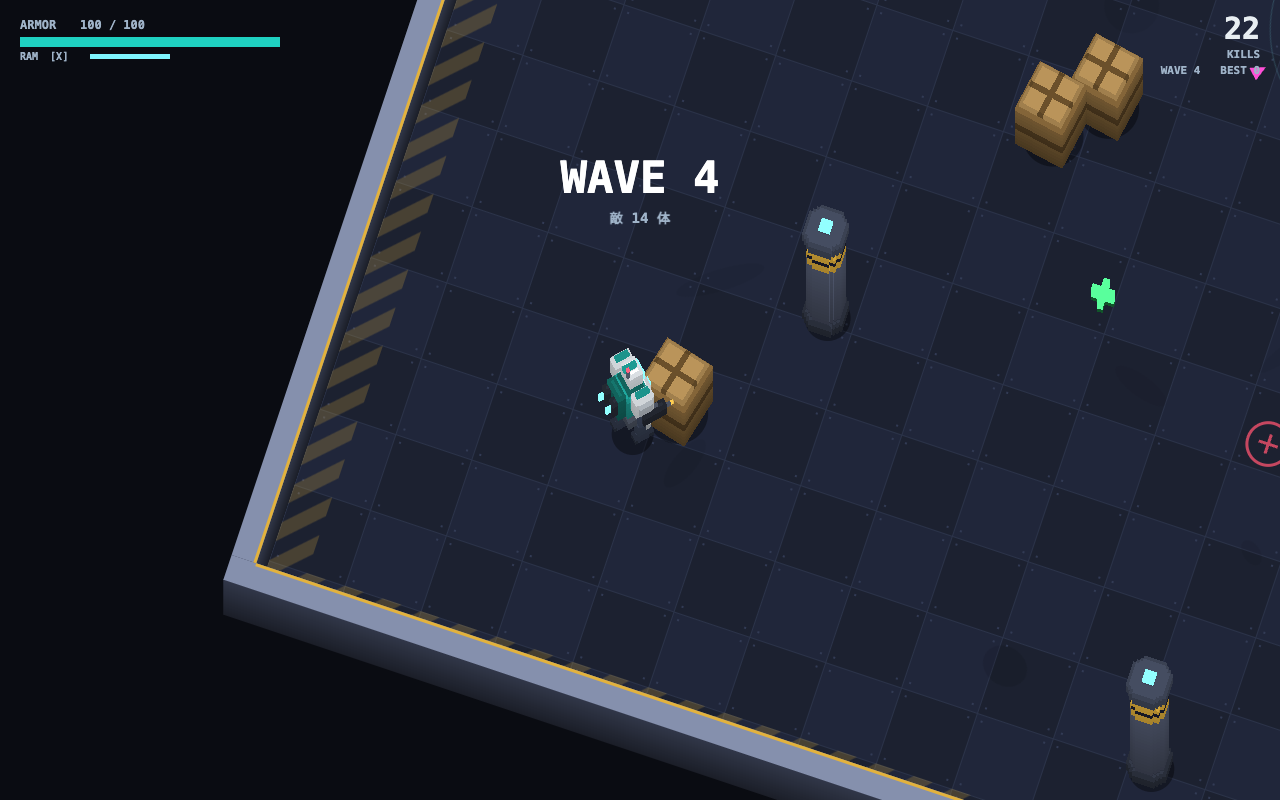
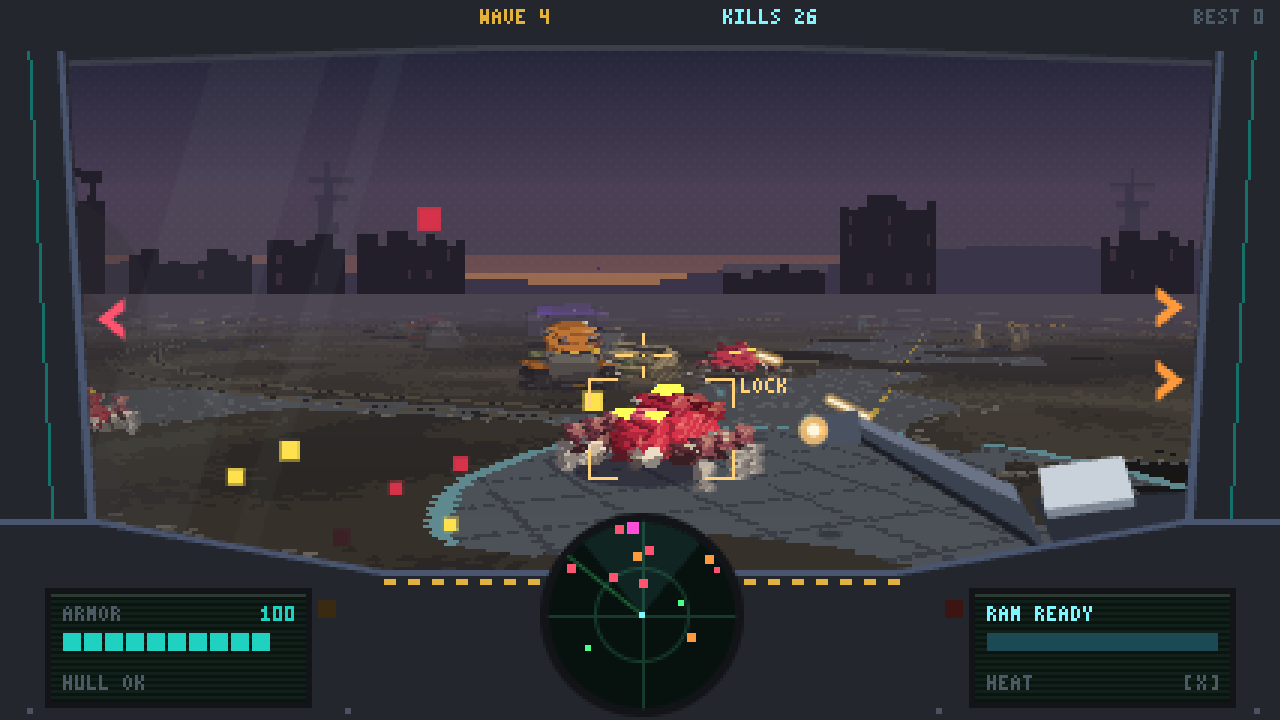
README と画面の写しを、コックピット視点・戦場・新しい音に合わせて更新
- 視点の表を 俯瞰・後ろ上・コックピット に。一人称の描画のしくみと限界、性能を書いた
- 3 版目の見た目（塗り・ロボット・フィールド）と音の作り方・測定結果を書いた
- docs/: view-cockpit.png・view-cockpit-close.png を追加、view-top.png・view-chase.png・screenshot.png を撮り直し、
  使わなくなった view-low.png を削除

diff --git a/README.md b/README.md
@@ -1,6 +1,6 @@
 # STACKBOT ARENA
 
-スプライトスタッキング（立体を「水平な断面の絵」の積み重ねで描く手法）で描いた、ブラウザで遊べるロボット対戦ゲームです。俯瞰と、後ろ上からの斜めの視点を切り替えられます。キーボードだけで遊びます。
+スプライトスタッキング（立体を「水平な断面の絵」の積み重ねで描く手法）で描いた、ブラウザで遊べるロボット対戦ゲームです。夕暮れの戦場が舞台で、俯瞰・後ろ上・コックピットからの一人称の 3 つの視点を切り替えられます。キーボードだけで遊びます。
 自機のロボット VANGUARD を操作して、次々に現れる敵のロボットを撃ち倒していきます。
 
 ![画面](docs/screenshot.png)
@@ -24,8 +24,8 @@ python3 -m http.server 8765
 | Z（長押しで連射） | 射撃。機体の正面へ撃つ |
 | X（Space でも可） | ダッシュ突撃 |
 | Shift（押している間） | 向きを固定（横歩き・後退しながら撃つ） |
-| Q / E | 視点を回す（後ろからの視点では横歩き） |
-| C | 視点の切り替え（俯瞰 → 後ろ上 → 低い後ろ）。選んだ視点はブラウザに保存 |
+| Q / E | 視点を回す（後ろ上・コックピットでは横歩き） |
+| C | 視点の切り替え（俯瞰 → 後ろ上 → コックピット）。選んだ視点はブラウザに保存 |
 | M | 消音 |
 | Enter | 開始 |
 | R / Enter | ゲームオーバー後にリトライ |
@@ -62,59 +62,92 @@ python3 -m http.server 8765
 
 ## 視点（C で切り替え）
 
-| 俯瞰 | 後ろ上 | 低い後ろ（試作） |
+| 俯瞰 | 後ろ上 | コックピット（一人称） |
 | --- | --- | --- |
-| ![俯瞰](docs/view-top.png) | ![後ろ上](docs/view-chase.png) | ![低い後ろ](docs/view-low.png) |
+| ![俯瞰](docs/view-top.png) | ![後ろ上](docs/view-chase.png) | ![コックピット](docs/view-cockpit.png) |
 
-- **俯瞰**: これまでの真上寄りの視点。北が固定で、Q / E で回せる。移動は画面の向きが基準。
+- **俯瞰**: 真上寄りの視点。北が固定で、Q / E で回せる。移動は画面の向きが基準。
 - **後ろ上**: カメラが自機の背中側へ回り込み、機体の前が常に画面の上になる。床を斜めに寝かせて（縦を 0.56 倍）、高さを強めに見せる。操作は ↑↓ で前進・後退、←→ で旋回、Q / E で横歩き、Z / X は同じ。
-- **低い後ろ（試作）**: さらに床を寝かせた（0.3 倍）視点。奥の壁が地平線のように見え、ロボットの側面まで見える。手前の障害物が自機に重なるときは半透明になる。
+- **コックピット**: VANGUARD の頭の高さ（地面から 57）から前を見る一人称。操作は後ろ上と同じ（↑↓ 前進・後退、←→ 旋回、Q / E 横歩き）。前の版の試作「低い後ろ」はこれに置き換えた。
 
-### 主観視点（ロボットの目線）はどこまで成り立つか
+### コックピット視点のしくみ
 
-スプライトスタッキングは「水平な断面の絵を、回して、縦に縮めて、高さぶん上にずらして重ねる」だけの描き方で、2D の canvas の回転・拡大縮小（アフィン変換）だけで描ける。床を寝かせる量と持ち上げる量を変えれば、**後ろ上から斜めに見下ろす視点までは自然に成り立つ**（上の 2 つ）。断面の積み重ねは横から見てもそれなりに形が読める。
+![コックピット（敵が近い場面）](docs/view-cockpit-close.png)
 
-一方、目線の高さ（ロボットの目の位置から前を見る主観視点）までは成り立たなかった。床をさらに寝かせた実験（`docs/view-eye-experiment.png`）で確かめた理由:
+前の版で「正射影のスプライトスタッキングでは主観視点は成り立たない（遠近が付かない）」と確かめた（`docs/view-eye-experiment.png`）ので、一人称だけ別の描画（`src/fps.js`）にした。
 
-1. **遠近が付かない**。この描き方は正射影なので、遠くの物が小さくならない。実験では 380 先の COLOSSUS が手前の自機より大きく映り、その奥の WARDEN は完全に隠れた。距離がわからず狙えない。遠近を付けるには物ごとに距離で縮める必要があり、床もそれに合わせて行ごとに縮める（いわゆる Mode 7 式の床）必要がある。床の絵は 1 枚のアフィン変換では台形に歪められない。
-2. **床が細い帯になる**。見えている範囲の大半が壁と空になり、敵の位置や弾が読めない。
-3. **近くの物が画面を埋める**。柱や木箱が目の前に来ると視界がふさがる（半透明にしても情報が多すぎる）。
-4. 自機の目線にすると自機が見えず、この遊びの見どころである「積み重ねたロボット」を見る機会が減る。
+1. **低解像度のバッファ**（画面の 1/3〜1/4、横 430〜480 画素）に描き、整数倍で拡大する。ドット絵の粒がそろい、1 画素ずつの計算も軽い。
+2. **Mode 7 式の床**: 地平線より下の行ごとに「目の高さ ÷ 地平線からの行数」で距離を求め、その行の左端のワールド座標と 1 画素ぶんの差分から地面の絵を 1 画素ずつ引く。遠い行はミップマップ（1/2〜1/16 に縮めた絵）を使ってちらつきを抑え、距離で霞の色へ寄せる。
+3. **距離で縮める断面スタック**: 物ごとに奥行き z を求め、拡大率 f / z で縮める。高さ h の断面は (目の高さ − h) / z の割合で縦につぶして、地平線から (目の高さ − h) × f / z の位置に置く。目より下の断面は下から、目より上の断面は上から目の高さへ向けて描く（見上げる部分は下面が手前に来る）。断面の絵は俯瞰と同じものをそのまま使い、遠い物は霞の色へ寄せた版をキャッシュする。物どうしは奥から手前へ並べて描く。
+4. **空と遠景**: 夕暮れのグラデーション（ディザ入り）に、360° のパノラマ（丘・送電鉄塔・崩れた建物・クレーン・煙の柱）を機体の向きに合わせて横に流す。
+5. **コックピット**: 上の梁（WAVE・KILLS）、画面の端に寄せた細い支柱、中央が低い U 字の計器盤。左に装甲の区切りゲージ、右にオーバーヒートと警告灯、中央に前が上のレーダー（視野の扇・走査線・敵の種類ごとの色の点）。照準は中央で、正面の吸い付き先がいると黄色の LOCK 枠で囲む。視野の外の敵は左右の端に矢印。右下に右腕のライフルが見え、撃つと反動で下がって銃口が光る。歩くと視界が上下し、突撃中は視野が広がって流れる線が出る。被弾で赤く光って画面が横にずれ、撃破されると砂嵐と SIGNAL LOST。文字は 3x5 のドットの字。
 
-代わりの案: 遊べる形としては「後ろ上」「低い後ろ」を主観視点の代わりにする（今回の実装）。本当に一人称にするなら、床を行ごとに描く Mode 7 式の床と、物ごとの距離による縮小を組み合わせた別の描画に作り替えることになる（断面の絵はそのまま使える）。
+**限界**（いまの出来で目立つもの）:
 
-## ロボットの見た目（2 版目）
+- 断面 1 枚を 1 つのアフィン変換で描くので、遠近は物の中心の距離でしか付かない。すぐ近く（ロボット 1 体ぶん以内）の物は形がゆがみ、画面いっぱいの太い縞になる。
+- 目の高さに近い断面は 1 画素の線になり、側面が横縞に見える（COLOSSUS の胴や、近くの柱で目立つ）。断面の積み重ねで側面を描く手法の限界。
+- 目より上の部分は下から見上げた形になる。COLOSSUS の肩は下面の平らな板に見えやすい。
+- 物どうしの前後は物の中心の奥行きだけで決めるので、大きな物が重なると前後を間違えることがある。
+- 自機は見えない（右腕のライフルは 2D の絵）。弾は右腕の銃口から出るので、曳光弾は画面の右下から照準へ向かって飛ぶ。
+- 地面の絵は ±1200 の範囲だけで、その外は同じ絵の繰り返し（霞で目立たないようにしている）。
 
-![ロボットの比較（上: 2 版目）](docs/robots-after.png)
+性能: ヘッドレス Chrome・1920x1080 でデモを流して 60fps（最も遅いフレームで 23ms）。
 
-形・部位・色・断面の積み方・動きを、Fable（Claude のモデル）に 1 回相談して作り直しました。旧版は `docs/robots-before.png`。
+## 見た目（3 版目）: 夕暮れの戦場
 
-相談で得た考え方:
+![ロボット（3 版目）](docs/robots-v3.png)
 
-- **上から見える上の 3〜5 層が見た目の 8 割**。正体（頭・肩・炉・背筋）は上の層に置き、脚は動きの手がかり程度でよい。
-- **層ごとに 1〜2 ボクセル張り出す／引っ込める**（細い腰に広い肩、砲塔の上に司令塔）。段ごとに「上面の明るさ」と「輪郭の暗さ」が出て、これがこの描き方で唯一の陰影になる。
-- **光る色は 1 体に 1 色、前と上に置く**（自機は水色、SCUTTLER は黄、WARDEN は橙赤、COLOSSUS は桃）。前の光で向きがわかる。光る部分は 2 ボクセル以上の幅にする（回転で消えないように）。
-- **左右非対称と明るい差し色で向きを示す**（ライフルと盾、大あご、砲身、骨色の先端）。1 ボクセルの細い部品は避ける。
-- 床（濃紺）に沈まないよう、脚や足先は暗くしすぎない。
+Fable（Claude のモデル）に 1 回相談した方針で作り直した。全体は「砲撃のあとの夕暮れ」: 地面は暗く彩度の低い土色、空は灰紫に細い残照、光は左上からの低い暖色、影は青紫。ロボットの光る色（水色・黄・橙赤・桃）と弾が背景の色と被らないようにしている。
 
-| 名前 | 新しい形 | 動き |
-| --- | --- | --- |
-| VANGUARD（自機） | 白い肩当てで T 字の輪郭、右にライフル・左に盾、背中に 2 基の推進器（水色の炎）、横一文字のバイザー | 脚の振り、推進器の炎が伸び縮み、待機中の 1px の上下動、撃つたびに後ろへ反動、オーバーヒート中は赤く点滅 |
-| SCUTTLER | 前に細くなる楔形の胴、骨色の大あご、6 本脚、黄色く光る背筋と目 | 3 本ずつ交互に足を出す歩き方、大あごの開閉、走るときの小刻みな震え |
-| WARDEN | 前に長い砲塔、口の広い 2 本の砲身、前甲板に黄黒の警告縞、後ろに機関部、回るレーダー | 履帯の突起が流れる、レーダーが回る、撃つ直前に光り、撃つと後ろへ反動 |
-| COLOSSUS | 幅広の猫背、大きな肩、前に突き出た籠手、背中に開いた桃色の炉と 4 本の放電柱 | 籠手を脚と逆に振る、放電柱の先が前後交互に光る、溜めの間は足元に縮んでいく桃色の輪 |
+**ドット絵の塗り**（`src/models.js` の断面生成）
 
-当たり判定の大きさ・強さは変えていません。モデルの確認には `tools/gallery.html`（4 体を 4 方向から拡大表示。`?src=別の models.js` で版を比べられる）を使います。
+- 明るさを −2〜+2 の 5 段に量子化し、影は青紫へ、光は暖色へ色相をずらす（前は連続的に暗くするだけで、ぼけたグラデーションに見えた）。
+- 断面の絵を XY だけ 2 倍に細分化（1 ボクセル = 2x2 画素）。輪郭・部品の継ぎ目（パネルライン）を半ボクセルの細さで入れる。モデルの座標・層の数・当たり判定は同じ。
+- 段差の付け根を 1 段暗く、左上からの光が当たる面を 1 段明るく（機体の向きに合わせて 8 方位の版をキャッシュ）。
+- 足元は土色の汚れ、上面の角にときどき地金の傷、光る部品の隣は煤、大きな箱の上面の四隅にリベット。
+
+**ロボット**（当たり判定・外形の範囲は変えていない）
+
+| 名前 | 足したもの |
+| --- | --- |
+| VANGUARD | 首の暗い襟で頭を浮かせる、胸の吸気口、背中の放熱フィン、盾の白い上縁と紋章、ライフルの被筒、白いつま先。白を少し黄ばませ、青緑を暗くして白と分けた |
+| SCUTTLER | 甲羅を 2 節に割る、頭の稜線、持ち上げた尾と針、立てた膝、暗い腹 |
+| WARDEN | 前面のドーザー板、2 本の排気管、左右非対称の荷物（寝袋と工具箱）、砲身の放熱帯、砲塔の上の識別帯 |
+| COLOSSUS | 炉の金属の縁と白い芯、骨色の襟板、炉から肩への配管、肩の前縁の明るい紫と骨色の角、籠手の上の帯 |
+
+**フィールド**（`src/field.js`。1 テクセル = 1 ボクセル）
+
+![戦場（俯瞰）](docs/field-top.png)
+
+- 地面: 2 オクターブの値ノイズを 4 段に量子化した土、ひび割れた舗装の十字路（消えかけの中央線・縁の砂利）、轍、焼け跡（中心に残り火）、クレーター（放射状の筋）、夕空を映す水たまり、半分埋もれた鉄板の発進パッド。アリーナの外は霞の色へ寄せる。
+- 外周: 壁をやめ、コンクリ障壁・黄黒の縞入り障壁・土嚢を 3 区間ずつ切り替えて並べ、四隅に監視塔の残骸。その外に当たり判定のない残骸を置き、一人称で地平線までの距離感を出す。
+- 障害物: 柱と木箱を、竜の歯・折れたコンクリ柱（鉄筋つき）・土嚢の陣地・擱座した装甲車・ドラム缶に置き換えた（当たり半径は前と同じ 2 種類）。
+- 影は右下へ伸ばした青紫の楕円。爆発に炎を足した。
+
+前の版（2 版目）の比較は `docs/robots-before.png`（1 版目）と `docs/robots-after.png`（2 版目）。
+
+## 音
+
+外部の音源は使わず、Web Audio で合成する。前は高い矩形波の短い音（銃声は 900→420Hz・9ms）で軽かったので、重く無骨な方向に作り直した。
+
+- 部品: 低い音の急降下（胴鳴り）、WaveShaper の歪み、帯域を絞ったノイズの破裂、手続きで作った 2.4 秒の残響（減衰するノイズのインパルス応答）、全体を締めるコンプレッサー。
+- 銃声: 乾いた破裂 + 150→42Hz の胴鳴り + 短い残響。敵の砲はさらに低く、尾が長い。
+- 爆発: 歪んだ 80→22Hz の轟き + 閉じていくノイズ + 散る破片の音 + 長い残響。COLOSSUS の全方位弾は地面を叩く衝撃。
+- 突撃: 帯域が上がっていく噴射音と低い唸り、踏み切りの衝撃。ほかに被弾・オーバーヒートの蒸気・復帰の機械音・修理・ウェーブの警報を作り直し、自機の足音を足した。
+- 確認: `?debug` で開き `__stack.sfxTest()` を呼ぶと、各音を OfflineAudioContext に書き出してピーク・鳴っている長さ・200Hz 未満の割合を返す。銃声は 200Hz 未満が 5%・9ms → 67%・433ms（余韻込み）、爆発は 79%・約 1.5 秒。
 
 ## しくみ
 
-- `src/models.js` … ロボットや木箱・柱を「箱」と「円柱」の部品で定義し、高さごとの断面画像（小さな canvas）をコードで生成する。下ほど暗く、上面は明るく、輪郭を暗くして立体感を出す。歩行のコマは脚の位置を変えた別モデルとして作る。
-- `src/game.js` … 断面を下から順に、回転させつつ 1 枚ずつ上にずらして描く（スプライトスタッキング）。画面上の奥行き順に並べ替えて重ねる。外周の壁も同じ考え方で矩形を積んで描く。
-- 効果音は WebAudio で合成。外部素材・ライブラリなし。
+- `src/models.js` … ロボットや障害物を「箱」と「円柱」の部品で定義し、高さごとの断面画像（小さな canvas）をコードで生成する（塗りは上の「見た目」を参照）。歩行のコマは脚の位置を変えた別モデルとして作る。
+- `src/field.js` … 戦場の地面・空の色・360° の遠景を手続きで作る。
+- `src/game.js` … ゲームの進行と、俯瞰・後ろ上の描画。断面を下から順に、回転させつつ 1 枚ずつ上にずらして描く（スプライトスタッキング）。画面上の奥行き順に並べ替えて重ねる。効果音の合成もここ。
+- `src/fps.js` … コックピット視点の描画（上の「コックピット視点のしくみ」）。
+- 外部素材・ライブラリなし。
 
 ### 確認用 URL パラメータ
 
 - `?demo` … 自動操縦のデモを流し続ける（タイトル画面の背景と同じ動き）。
 - `?demo&warp=48` … 開始直後に 48 秒ぶん進めてから表示する（スクリーンショット用）。
-- `?view=top|chase|low` … 最初の視点を選ぶ。
-- `?debug` … `window.__stack` から自機・敵などの状態を読めるようにする（ヘッドレス Chrome での動作確認用）。
+- `?view=top|chase|cockpit` … 最初の視点を選ぶ。
+- `?scene` … 止まった確認用の場面（敵 5 体を自機の前に並べ、敵は動かず撃たない）。`&fire` で撃ち続ける。
+- `?debug` … `window.__stack` から自機・敵などの状態を読めるようにする（ヘッドレス Chrome での動作確認用）。`__stack.sfxTest()` で音の測定。
